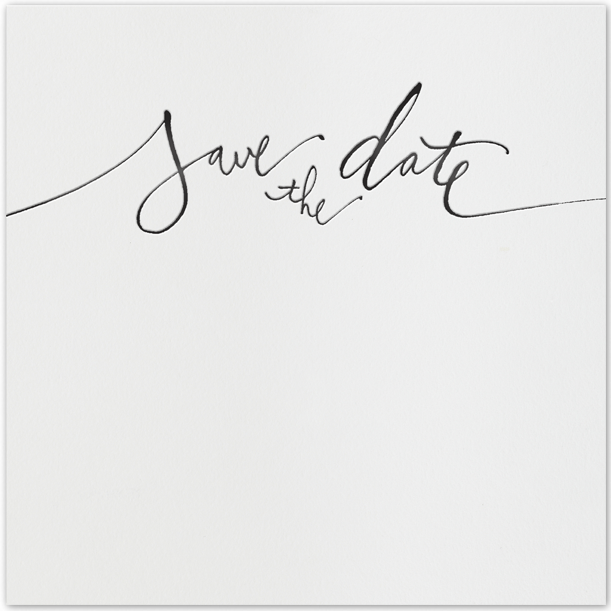
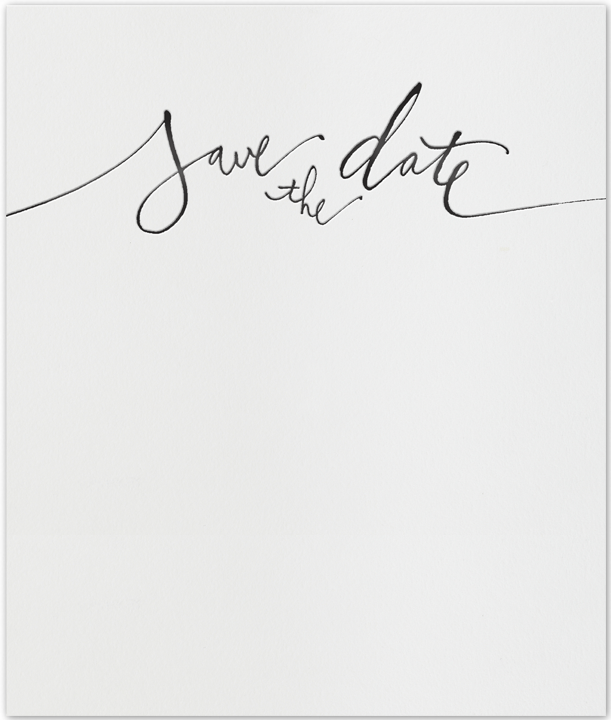
Addressed review comments. Added stats for categories + rsvp. Changed saveTheDate.png to be longer. #22 #23

diff --git a/web/js/views/guestlist/statsPane/statsPane.js b/web/js/views/guestlist/statsPane/statsPane.js
@@ -18,7 +18,21 @@ define([
 
     renderStats: function(partys) {
       var stats = partys.map(function(party) {
-        return { priority: party.get('priority'), numGuests: party.get('guests').length, addressVerified: party.get('addressVerified') };
+        var guests = party.get('guests');
+        var guestStats = _.reduce(guests, function(memo, guestStats) {
+          if (guestStats['isAttending']) {
+            memo['isAttending'] += 1;
+          } else {
+            if (typeof guestStats['isAttending'] === 'undefined') {
+              memo['none'] += 1;
+            } else {
+              memo['notAttending'] += 1;
+            }
+          }
+          return memo;
+        }, {isAttending: 0, none: 0, notAttending: 0 });
+
+        return { priority: party.get('priority'), numGuests: party.get('guests').length, addressVerified: party.get('addressVerified'), category: party.get('category'), guestStats: guestStats }
       });
 
       var defaultMemo = {
@@ -31,11 +45,18 @@ define([
         hr2: {},
         addressVerified: { display: 'Address Verified', value: 0 },
         notAddressVerified: { display: 'Not verified', value: 0 },
+        hr3: {},
+        bride: {display: 'Bride', value: 0 },
+        groom: {display: 'Groom', value: 0 },
+        noCategory: {display: 'None', value: 0},
+        hr4: {},
+        stdRsvpYes: {display: 'Responded Yes to Save the Date', value: 0},
+        stdRsvpNo: {display: 'Responded No to Save the Date', value: 0},
+        stdRsvpNone: {display: 'No response to Save the Date', value: 0}
       };
 
       stats = _.reduce(stats, function(memo, partyStats) {
         memo.total.value += partyStats.numGuests;
-
         if (partyStats.priority && memo[partyStats.priority]) {
           memo[partyStats.priority].value += partyStats.numGuests;
         } else {
@@ -46,6 +67,24 @@ define([
           memo.addressVerified.value += partyStats.numGuests;
         } else {
           memo.notAddressVerified.value += partyStats.numGuests;
+        }
+
+        if (partyStats.category && memo[partyStats.category]) {
+          memo[partyStats.category].value += partyStats.numGuests;
+        } else {
+          memo.noCategory.value += partyStats.numGuests;
+        }
+
+        if (partyStats.guestStats.isAttending) {
+          memo.stdRsvpYes.value += partyStats.guestStats.isAttending;
+        }
+
+        if (partyStats.guestStats.notAttending) {
+          memo.stdRsvpNo.value += partyStats.guestStats.notAttending;
+        }
+
+        if (partyStats.guestStats.none) {
+          memo.stdRsvpNone.value += partyStats.guestStats.none;
         }
 
         return memo;

diff --git a/web/js/views/guestlist/partysTable/partyRow.html b/web/js/views/guestlist/partysTable/partyRow.html
@@ -9,7 +9,13 @@
       <td rowspan="<%= party.guests.length %>" id="guestListPriority-<%= party.id %>"></td>
     <% } %>
     <td><% if (index === 0) { %> <button class="send btn btn-success">Send Now</button><% }%></td>
-    <td><%=(typeof guest.isAttending !== 'undefined') ? (guest.isAttending ? 'Yes' : 'No') : ''%></td>
-    <td><% if (index === 0) { %> <button class="delete btn btn-danger">Delete</button><% } %></td>
+    <td>
+      <% if (guest.isAttending !== undefined) { %>
+        <%=guest.isAttending ? 'Yes' : 'No'%>
+      <% } %>
+    </td>
+    <td>
+      <% if (index === 0) { %> <button class="delete btn btn-danger">Delete</button><% } %>
+    </td>
   </tr>
 <% }) %>

diff --git a/web/js/views/weddings/settings.js b/web/js/views/weddings/settings.js
@@ -46,12 +46,7 @@ define([
         }
       });
 
-      if (values['weddingName1'] || values['weddingName2']) {
-        values['name'] = (values['weddingName1'] ? values['weddingName1'] : '') + ' & ' + (values['weddingName2'] ? values['weddingName2'] : '');
-      }
-
-      if (typeof values[weddingName1] !== 'undefined') { delete values.weddingName1; }
-      if (typeof values[weddingName2] !== 'undefined') { delete values.weddingName2; }
+      values['name'] = (values['weddingName1'] ? values['weddingName1'] : '') + ' & ' + (values['weddingName2'] ? values['weddingName2'] : '');
 
       var self = this;
 

diff --git a/mailer/templates/saveTheDate.html b/mailer/templates/saveTheDate.html
@@ -21,7 +21,7 @@
           <center>
             <p><%= date ? date : ""%></p>
             <p><%= time ? time: ""%></p>
-            <p><?=location ? location : ""</p>
+            <p><%=location ? location : ""%></p>
           </center>
         </td>
       </tr>

diff --git a/web/js/views/guestlist/partysTable/category.js b/web/js/views/guestlist/partysTable/category.js
@@ -7,7 +7,7 @@ define([
 
   var View = Backbone.View.extend({
     events: {
-      'change .partyCategory': 'setPartyCategory'
+      'change .categorySelect': 'setPartyCategory'
     },
 
     initialize: function(config, vent, pather, cookie, party) {
